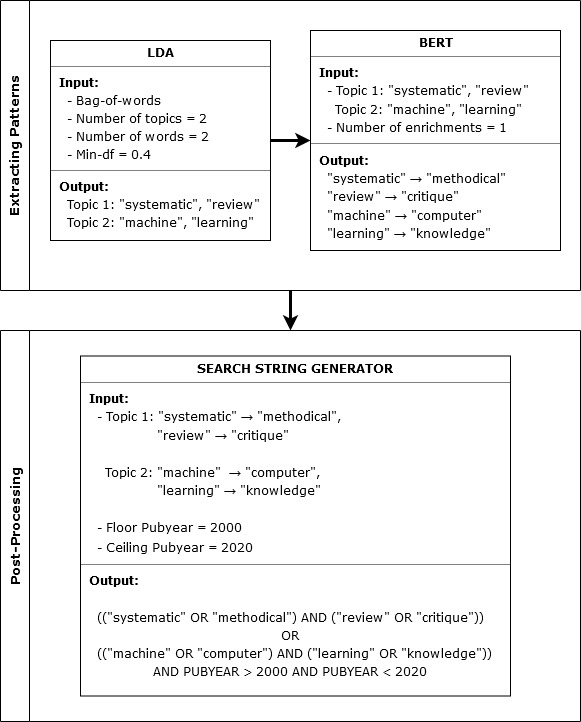
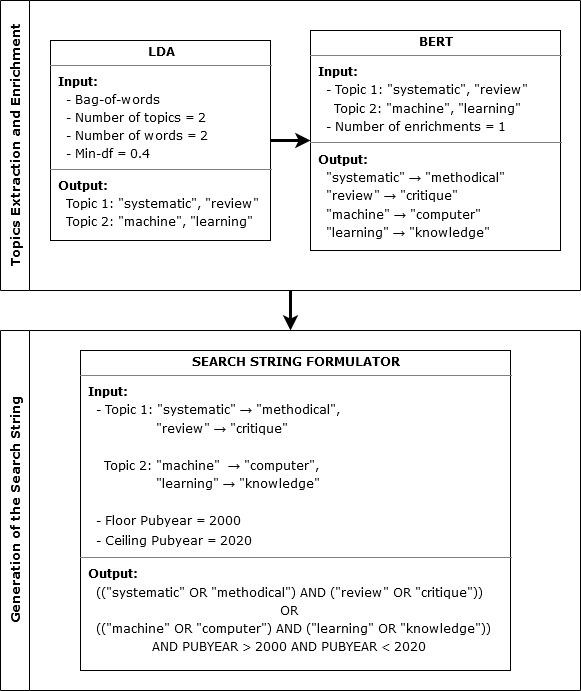
Update the README for submition

diff --git a/README.md b/README.md
@@ -2,11 +2,9 @@
     SeSG (Search String Generator)
 </h1> 
 
-
 <p align="center">
     <img alt="Repository Size" src="https://img.shields.io/github/repo-size/LeoFuchs/SeSG">
     <img alt="Top Language" src="https://img.shields.io/github/languages/top/LeoFuchs/SeSG">
-    <img alt="Made By" src="https://img.shields.io/badge/Made%20By-Leonardo%20Fuchs-orange">
     <img alt="License" src="https://img.shields.io/github/license/LeoFuchs/SeSG">
     <img alt="Stargazers" src="https://img.shields.io/github/stars/LeoFuchs/SeSG?style=social">
 </p>
@@ -16,7 +14,7 @@ Implementation and experimentation of SeSG, a search string generator that uses 
 **Note**: This is a research algorithm, susceptible to errors and imperfections.
 
 ### Repository Structure
-This is the directory structure. In summary, there is a folder with the results of the quasi-experiment (complete-results), a folder with the output of the execution (exits), a folder with the input files of the execution (files-qgs) and the codes that form the SeSG.
+This is the directory structure. In summary, there is a folder with the results of the experiment (complete-results), a folder with the output of the execution (exits), a folder with the input files of the execution (files-qgs) and the codes that form the SeSG.
 
 ```bash
 ├── SeSG
@@ -60,7 +58,8 @@ An example of how the SeSG process works is shown in Figure 1. This process begi
 
 <p align="center"><img align="center" src="https://github.com/LeoFuchs/SeSG/blob/master/images/process.jpg" width="500"></p>
 
-<p align="center"><b> Figure 1. </b>An example of the Extracting Patterns and Post-Processing steps of the SeSG approach, showing the necessary input parameters and how the search string is developed.</p>
+<p align="center"><b> Figure 1. </b>An example of the Topics Extraction and Enrichment and Generation of Search String 
+sub-processes of the SeSG process, showing the necessary input parameters and how the search string is developed.</p>
 
 <br>
 To executing the SeSG, simply run some of the `.py` files present at the root of the directory.
@@ -117,7 +116,7 @@ The output graph represents the connection between the articles present in the G
 
 <p align="center"><img src="https://github.com/LeoFuchs/SeSG/blob/master/images/snowballing-output.png" width="500"></p>
 
-<p align="center"><b> Figure 2. </b>Graph representing the conection between the GS in the Azeem et al. experiment</p>
+<p align="center"><b> Figure 2. </b>Graph representing the connection between the GS in the Vasconcellos et al. [3] object.</p>
 
 
 ### Requirements
